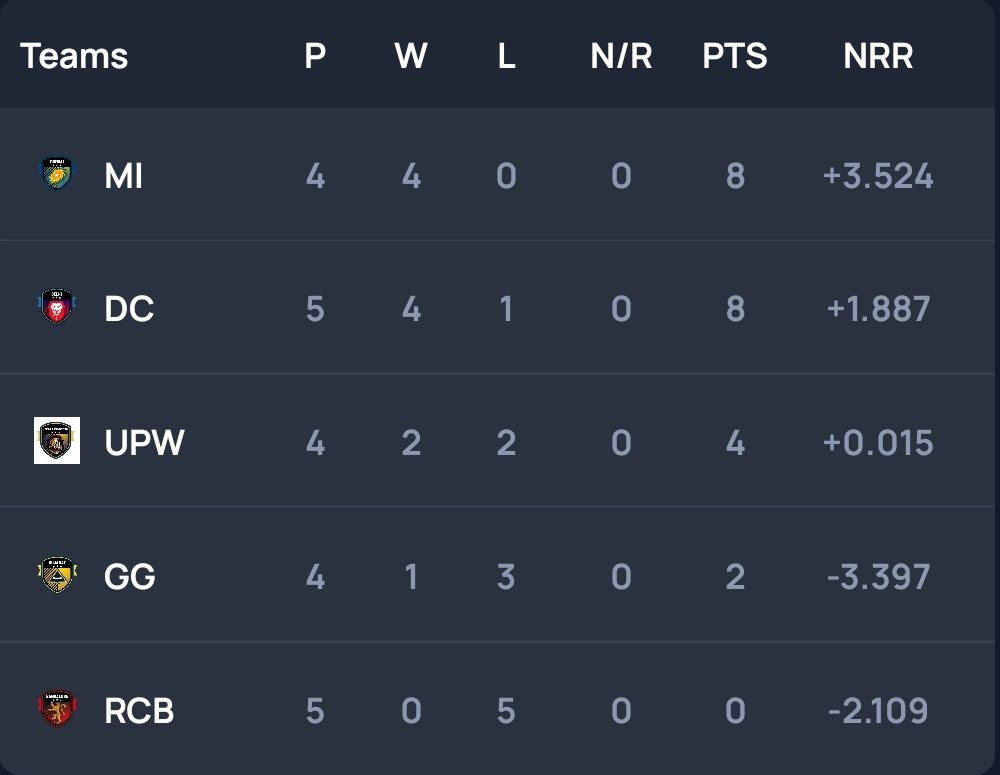
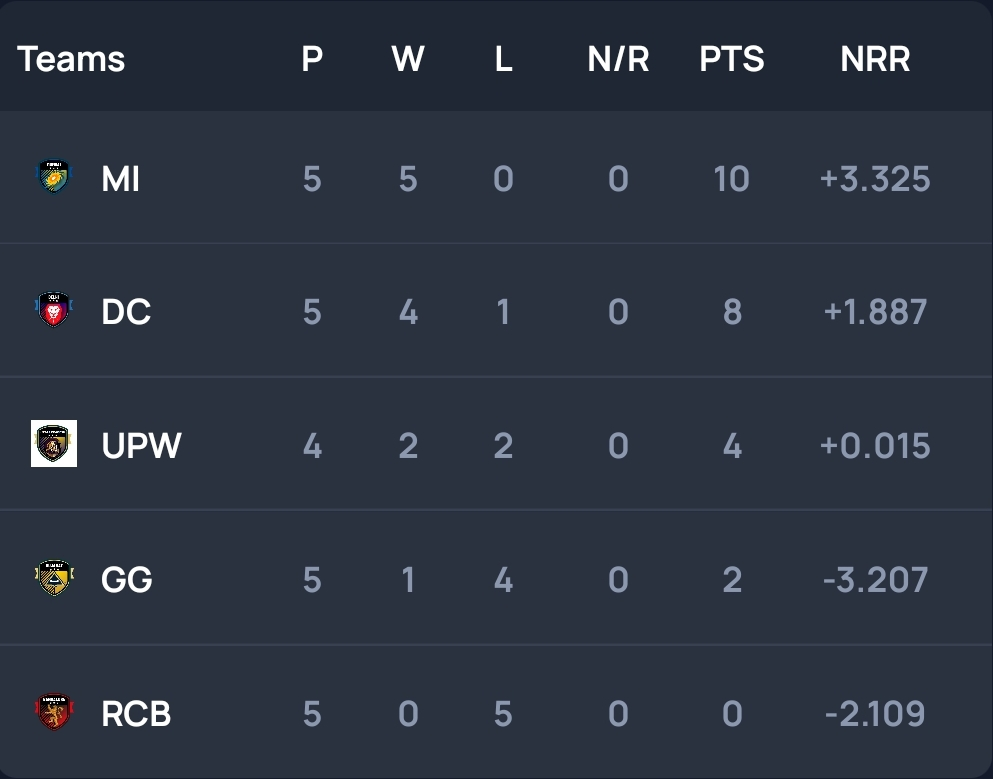
changes 9

diff --git a/index.html b/index.html
@@ -152,7 +152,7 @@
                 </a></li>
               <li class="tab"><a href="#wpl" class="active blue-grey darken-4 amber-text text-accent-2">
                   <h6>WPL 2023<br>
-                    <img src="images/Red.gif" width="12px" height="12px"> <span class="red-text"><b>LIVE</b></span>
+                    <!-- <img src="images/Red.gif" width="12px" height="12px"> <span class="red-text"><b>LIVE</b></span> -->
                   </h6>
                 </a></li>
               <li class="tab"><a href="#ipl" class="blue-grey darken-4 amber-text text-accent-2">
@@ -429,23 +429,21 @@
         <div class="modal blue-grey darken-4 white-text" id="wpl12">
           <div class="modal-content">
             <h6 class="white-text"><b>TOSS</b>:GG opted to field</h6>
-            <iframe src="https://www.cricket.com/match-score/221919/scorecard" width="100%" height="3000px"
-              scrolling="no"></iframe>
             <h5 class="amber-text text-accent-2"><b>MI</b></h5>
-            <!-- <img src="images/wpl12/1.jpg" width="100%" class="responsive-img">
+            <img src="images/wpl12/1.jpg" width="100%" class="responsive-img">
             <img src="images/wpl12/2.jpg" width="100%" class="responsive-img">
-            <img src="images/wpl12/3.jpg" width="100%" class="responsive-img"> -->
+            <img src="images/wpl12/3.jpg" width="100%" class="responsive-img">
             <h5 class="amber-text text-accent-2"><b>GG</b></h5>
-            <!-- <img src="images/wpl12/4.jpg" width="100%" class="responsive-img">
+            <img src="images/wpl12/4.jpg" width="100%" class="responsive-img">
             <img src="images/wpl12/5.jpg" width="100%" class="responsive-img">
-            <img src="images/wpl12/6.jpg" width="100%" class="responsive-img"> -->
+            <img src="images/wpl12/6.jpg" width="100%" class="responsive-img">
           </div>
         </div>
         <div class="modal blue-grey darken-4 white-text" id="wpl13">
           <div class="modal-content">
             <h6 class="white-text"><b>TOSS</b>: opted to </h6>
-            <!-- <iframe src="https://www.cricket.com/match-score/221920/scorecard" width="100%" height="3000px"
-                scrolling="no"></iframe> -->
+            <iframe src="https://www.cricket.com/match-score/221920/scorecard" width="100%" height="3000px"
+              scrolling="no"></iframe>
             <h5 class="amber-text text-accent-2"><b>UPW</b></h5>
             <!-- <img src="images/wpl13/1.jpg" width="100%" class="responsive-img">
             <img src="images/wpl13/2.jpg" width="100%" class="responsive-img">
@@ -594,13 +592,13 @@
         <div class="col s12" id="ind">
           <div class="row"><br>
             <div class="col s12 m12 l8 offset-l2">
-              <iframe src="https://www.cricket.com/match-score/219595/scorecard" width="100%" height="150px"
+              <iframe src="https://www.cricket.com/match-score/219596/scorecard" width="100%" height="150px"
                 scrolling="no"></iframe>
             </div>
           </div>
           <ul class="collapsible blue-grey darken-4 white-text" data-collapsible="accordion">
             <li>
-              <div class="collapsible-header active blue-grey darken-4"><b>HEAD TO HEAD (IN TESTs)</b></div>
+              <div class="collapsible-header active blue-grey darken-4"><b>HEAD TO HEAD (IN ODIs)</b></div>
               <div class="collapsible-body">
                 <table class="centered white-text">
                   <tbody>
@@ -613,10 +611,10 @@
                           height="25px"><br>AUS</td>
                     </tr>
                     <tr>
-                      <td><img src="https://images.cricket.com/players/3852_headshot_safari.png" alt="IND" width="56px"
-                          height="80px"><br>Rohit Sharma</td>
-                      <!-- <td><img src="https://images.cricket.com/players/63751_headshot_safari.png" alt="IND" width="56px"
-                          height="80px"><br>Hardik Pandya</td> -->
+                      <!-- <td><img src="https://images.cricket.com/players/3852_headshot_safari.png" alt="IND" width="56px"
+                          height="80px"><br>Rohit Sharma</td> -->
+                      <td><img src="https://images.cricket.com/players/63751_headshot_safari.png" alt="IND" width="56px"
+                          height="80px"><br>Hardik Pandya</td>
                       <td><b>VS</b></td>
                       <td><img src="https://images.cricket.com/players/4308_headshot_safari.png" alt="AUS" width="56px"
                           height="80px"><br>Steven Smith</td>
@@ -625,15 +623,12 @@
                     </tr>
                     <tr>
                       <td colspan="3" class="amber-text text-accent-2">
-                        <hr><br>*After 4th TEST</td>
+                        <hr><br>*Before 1st ODI</td>
                     </tr>
                     <tr>
-                      <td><b>WON: 32*</b><br>30%</td>
-                      <!-- <td><b>WON: 53*</b><br>37%</td> -->
-                      <td><b>MATCHES: 106*</b><br>TIE/ NR/ DRAW: 30</td>
-                      <!-- <td><b>MATCHES: 143*</b><br>TIE/ NR/ DRAW: 10</td> -->
-                      <td><b>WON: 44*</b><br>42%</td>
-                      <!-- <td><b>WON: 80*</b><br>56%</td> -->
+                      <td><b>WON: 53*</b><br>37%</td>
+                      <td><b>MATCHES: 143*</b><br>TIE/ NR/ DRAW: 10</td>
+                      <td><b>WON: 80*</b><br>56%</td>
                     </tr>
                     <tr>
                       <td><b style="font-size: x-large;">&#10112;</b></td>
@@ -648,47 +643,10 @@
             <li>
               <div class="collapsible-header blue-grey darken-4"><b>SQUADS (AUS tour of IND)</b></div>
               <div class="collapsible-body">
-                <h5><b>INDIA (IN TESTs):</b></h5>
-                <h6><img src="images/bat.png" height="20px"> ROHIT SHARMA (capt),
-                  <img src="images/bat.png" height="20px"> Cheteshwar Pujara,
-                  <img src="images/bat.png" height="20px"> KL Rahul,
-                  <img src="images/bat.png" height="20px"> Shreyas Iyer,
-                  <img src="images/bat.png" height="20px"> Shubman Gill,<br>
-                  <img src="images/bat.png" height="20px"> Suryakumar Yadav,
-                  <img src="images/bat.png" height="20px"> Virat Kohli,
-                  <img src="images/all.png" height="20px"> Axar Patel,
-                  <img src="images/all.png" height="20px"> Ravichandran Ashwin,
-                  <img src="images/all.png" height="20px"> Ravindra Jadeja,<br>
-                  <img src="images/wk.png" height="20px"> Ishan Kishan,
-                  <img src="images/wk.png" height="20px"> Srikar Bharat,
-                  <img src="images/ball.png" height="20px"> Kuldeep Yadav,
-                  <img src="images/ball.png" height="20px"> Mohammad Shami,
-                  <img src="images/ball.png" height="20px"> Mohammed Siraj,<br>
-                  <img src="images/ball.png" height="20px"> Jaydev Unadkat
-                  <img src="images/ball.png" height="20px"> Umesh Yadav</h6>
-                <h5><b>AUSTRALIA (IN TESTs):</b></h5>
-                <h6><img src="images/ball.png" height="20px"> PAT CUMMINS (capt for 1st,2nd TEST),
-                  <img src="images/bat.png" height="20px"> STEVEN SMITH (capt for 3rd,4th TEST),
-                  <img src="images/bat.png" height="20px"> David Warner,
-                  <img src="images/bat.png" height="20px"> Marnus Labuschagne,
-                  <img src="images/bat.png" height="20px"> Matt Renshaw,<br>
-                  <img src="images/bat.png" height="20px"> Travis Head,
-                  <img src="images/bat.png" height="20px"> Usman Khawaja,
-                  <img src="images/all.png" height="20px"> Ashton Agar,
-                  <img src="images/all.png" height="20px"> Cameron Green,
-                  <img src="images/wk.png" height="20px"> Alex Carey,<br>
-                  <img src="images/wk.png" height="20px"> Peter Handscomb,
-                  <img src="images/ball.png" height="20px"> Josh Hazlewood,
-                  <img src="images/ball.png" height="20px"> Lance Morris,
-                  <img src="images/ball.png" height="20px"> Mitchell Starc,
-                  <img src="images/ball.png" height="20px"> Mitchell Swepson,<br>
-                  <img src="images/ball.png" height="20px"> Nathan Lyon,
-                  <img src="images/ball.png" height="20px"> Scott Boland,
-                  <img src="images/ball.png" height="20px"> Todd Murphy</h6>
                 <hr>
                 <h5><b>INDIA (IN ODIs):</b></h5>
-                <h6><img src="images/bat.png" height="20px"> ROHIT SHARMA (capt for 2nd,3rd ODI),
-                  <img src="images/all.png" height="20px"> HARDIK PANDYA (capt for 1st ODI),
+                <h6><img src="images/bat.png" height="20px"> ROHIT SHARMA (capt for 3rd ODI),
+                  <img src="images/all.png" height="20px"> HARDIK PANDYA (capt for 1st,2nd ODI),
                   <img src="images/bat.png" height="20px"> Shubman Gill,
                   <img src="images/bat.png" height="20px"> Virat Kohli,
                   <img src="images/bat.png" height="20px"> Suryakumar Yadav,<br>
@@ -706,24 +664,21 @@
                   <img src="images/ball.png" height="20px"> Shardul Thakur,
                   <img src="images/ball.png" height="20px"> Jaydev Unadkat</h6>
                 <h5><b>AUSTRALIA (IN ODIs):</b></h5>
-                <!-- <h6><img src="images/all.png" height="20px"> DASUN SHANAKA (c),
-                    <img src="images/bat.png" height="20px"> Ashen Bandara,
-                    <img src="images/bat.png" height="20px"> Avishka Fernando,
-                    <img src="images/bat.png" height="20px"> Charith Asalanka,
-                    <img src="images/bat.png" height="20px"> Nuwanidu Fernando,<br>
-                    <img src="images/bat.png" height="20px"> Pathum Nissanka,
-                    <img src="images/all.png" height="20px"> Chamika Karunaratne,
-                    <img src="images/all.png" height="20px"> Dhananjaya de Silva,
-                    <img src="images/all.png" height="20px"> Wanindu Hasaranga,
-                    <img src="images/wk.png" height="20px"> Kusal Mendis,<br>
-                    <img src="images/wk.png" height="20px"> Sadeera Samarawickrama,
-                    <img src="images/ball.png" height="20px"> Dilshan Madushanka,
-                    <img src="images/ball.png" height="20px"> Dunith Wellalage,
-                    <img src="images/ball.png" height="20px"> Jeffrey Vandersay,
-                    <img src="images/ball.png" height="20px"> Kasun Rajitha,<br>
-                    <img src="images/ball.png" height="20px"> Lahiru Kumara,
-                    <img src="images/ball.png" height="20px"> Maheesh Theekshana,
-                    <img src="images/ball.png" height="20px"> Pramod Madushan</h6> -->
+                <h6><img src="images/bat.png" height="20px"> STEVEN SMITH (c),
+                  <img src="images/bat.png" height="20px"> David Warner,
+                  <img src="images/bat.png" height="20px"> Marnus Labuschagne,
+                  <img src="images/bat.png" height="20px"> Travis Head,
+                  <img src="images/all.png" height="20px"> Ashton Agar,<br>
+                  <img src="images/all.png" height="20px"> Cameron Green,
+                  <img src="images/all.png" height="20px"> Glenn Maxwell,
+                  <img src="images/all.png" height="20px"> Marcus Stoinis,
+                  <img src="images/all.png" height="20px"> Mitchell Marsh,
+                  <img src="images/wk.png" height="20px"> Alex Carey,<br>
+                  <img src="images/wk.png" height="20px"> Josh Inglis,
+                  <img src="images/ball.png" height="20px"> Adam Zampa,
+                  <img src="images/ball.png" height="20px"> Mitchell Starc,
+                  <img src="images/ball.png" height="20px"> Nathan Ellis,
+                  <img src="images/ball.png" height="20px"> Sean Abbott</h6>
               </div>
             </li>
           </ul>
@@ -859,7 +814,7 @@
               <li>
                 <div class="collapsible-header blue-grey darken-4"><b>WPL POINTS TABLE</b></div>
                 <div class="collapsible-body">
-                  <h6 class="white-text"><b>LAST UPDATE</b>: After Match 11</h6>
+                  <h6 class="white-text"><b>LAST UPDATE</b>: After Match 12</h6>
                   <img src="wplpt.jpg" class="responsive-img">
                 </div>
               </li>
@@ -892,8 +847,8 @@
                 <div class="collapsible-header pink accent-3 white-text active"><b>WATCH WPL LIVE</b></div>
                 <span id="view"></span>
                 <div class="collapsible-body">
-                  <iframe src="https://www.jiocinema.com/sports/mumbai-indians-vs-gujarat-giants/3707417" width="100%"
-                    height="600px" scrolling="no"></iframe>
+                  <iframe src="https://www.jiocinema.com/sports/up-warriorz-vs-royal-challengers-bangalore/3707417"
+                    width="100%" height="600px" scrolling="no"></iframe>
                 </div>
               </li>
             </ul>
@@ -1071,23 +1026,24 @@
                       </h6>
                     </div>
                     <div class="card-panel blue-grey darken-4 white-text col s12 m12 l4 z-depth-2">
-                      <h6> &#10148; Match 12: March 14, 19:30 IST<br><i class="fa-solid fa-map-marker-alt"></i> Mumbai
+                      <h6>Match 12: March 14, 19:30 IST<br><i class="fa-solid fa-map-marker-alt"></i> Mumbai
                       </h6>
                       <hr>
                       <h6 class="col s7 m7 l7">
                         <img src="https://images.cricket.com/teams/1111_flag_safari.png" class="circle ipl">
                         <b>Mumbai Indians</b></h6>
-                      <h6 class="col s5 m5 l5 transparent-text">-</h6>
+                      <h6 class="col s5 m5 l5">162/8</h6>
                       <h6 class="col s7 m7 l7">
                         <img src="https://images.cricket.com/teams/2955_flag_safari.png" class="circle ipl">
                         <b>Gujarat Giants</b></h6>
-                      <h6 class="col s5 m5 l5 transparent-text">-</h6>
-                      <h6 class="transparent-text"><b>-</b> won by -</h6>
+                      <h6 class="col s5 m5 l5">107/9</h6>
+                      <h6><b>Mumbai Indians</b> won by 55 RUNS</h6>
                       <h6><a href="#wpl12" class="oui-button modal-trigger pink accent-3 white-text">Full Scores</a>
                       </h6>
                     </div>
                     <div class="card-panel blue-grey darken-4 white-text col s12 m12 l4 z-depth-2">
-                      <h6>Match 13: March 15, 19:30 IST<br><i class="fa-solid fa-map-marker-alt"></i> Navi Mumbai</h6>
+                      <h6> &#10148; Match 13: March 15, 19:30 IST<br><i class="fa-solid fa-map-marker-alt"></i> Navi
+                        Mumbai</h6>
                       <hr>
                       <h6 class="col s7 m7 l7">
                         <img src="https://images.cricket.com/teams/2954_flag_safari.png" class="circle ipl">
